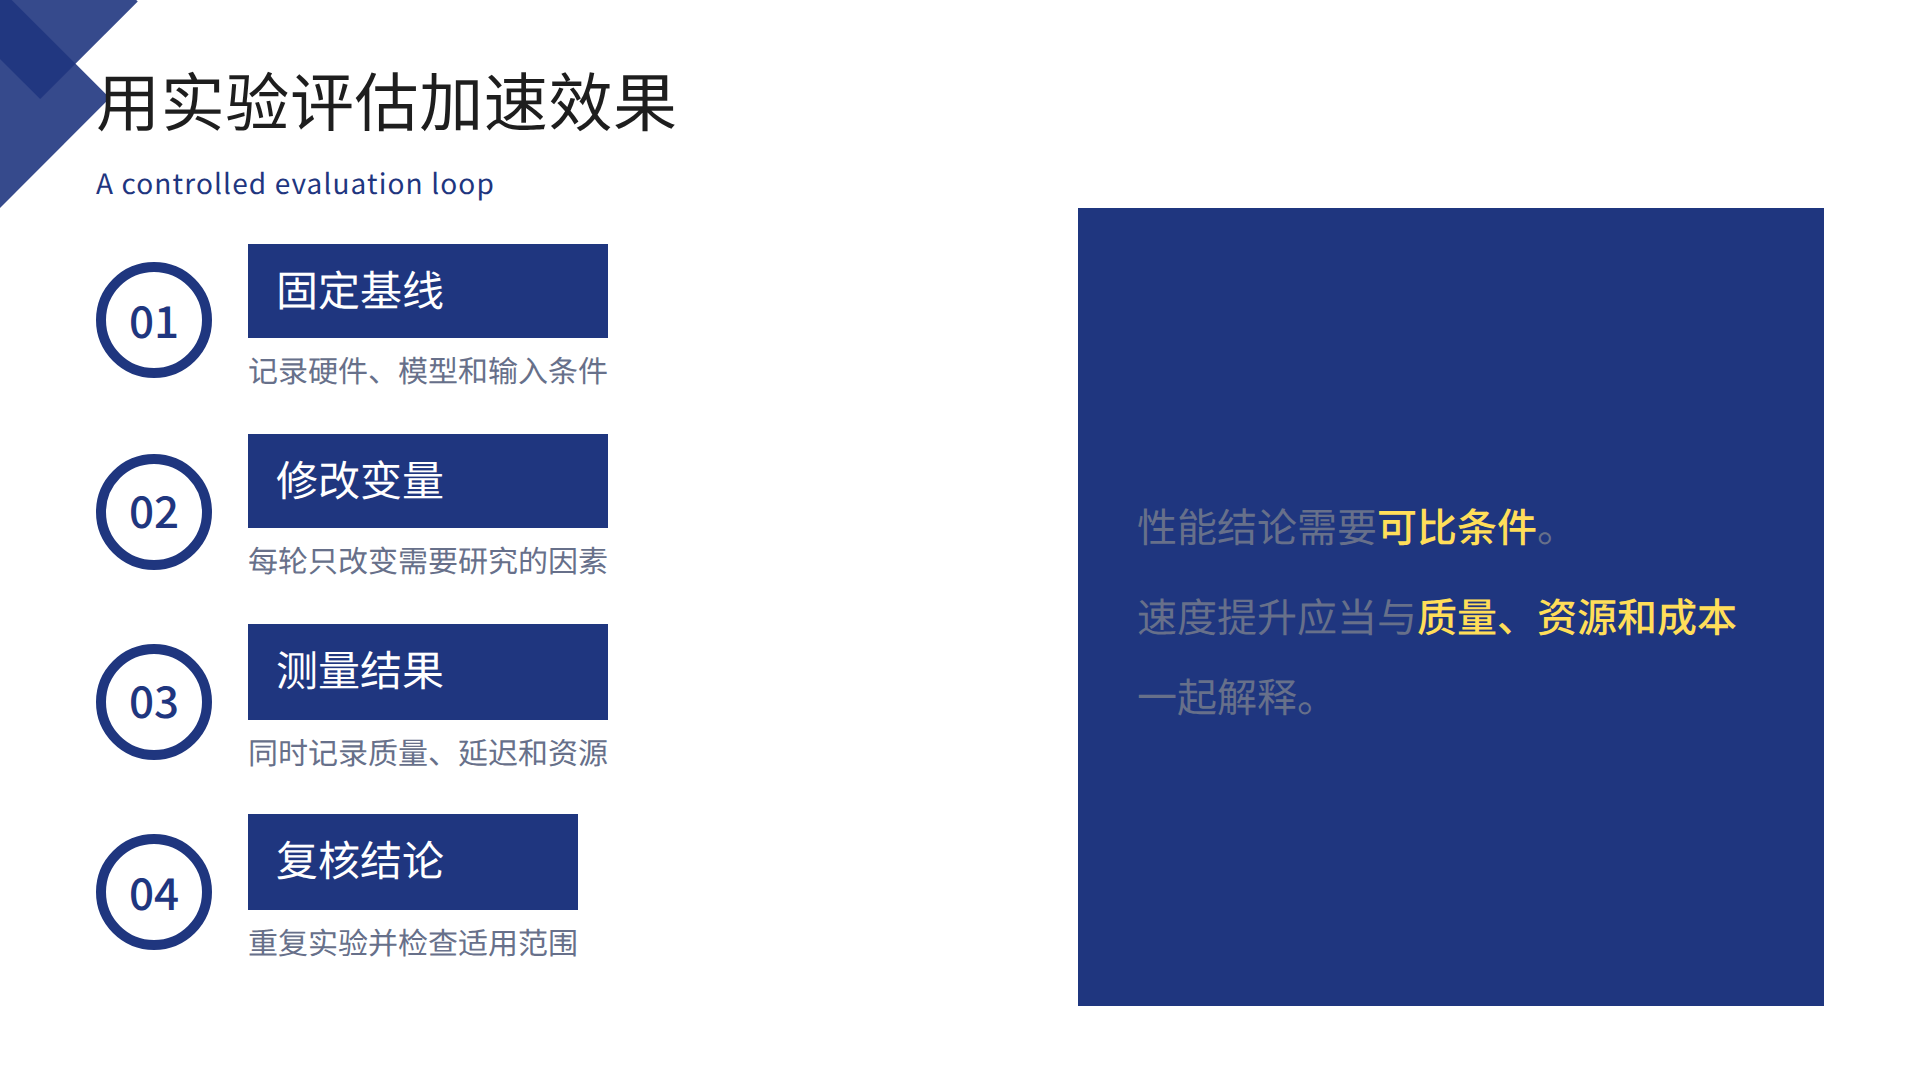
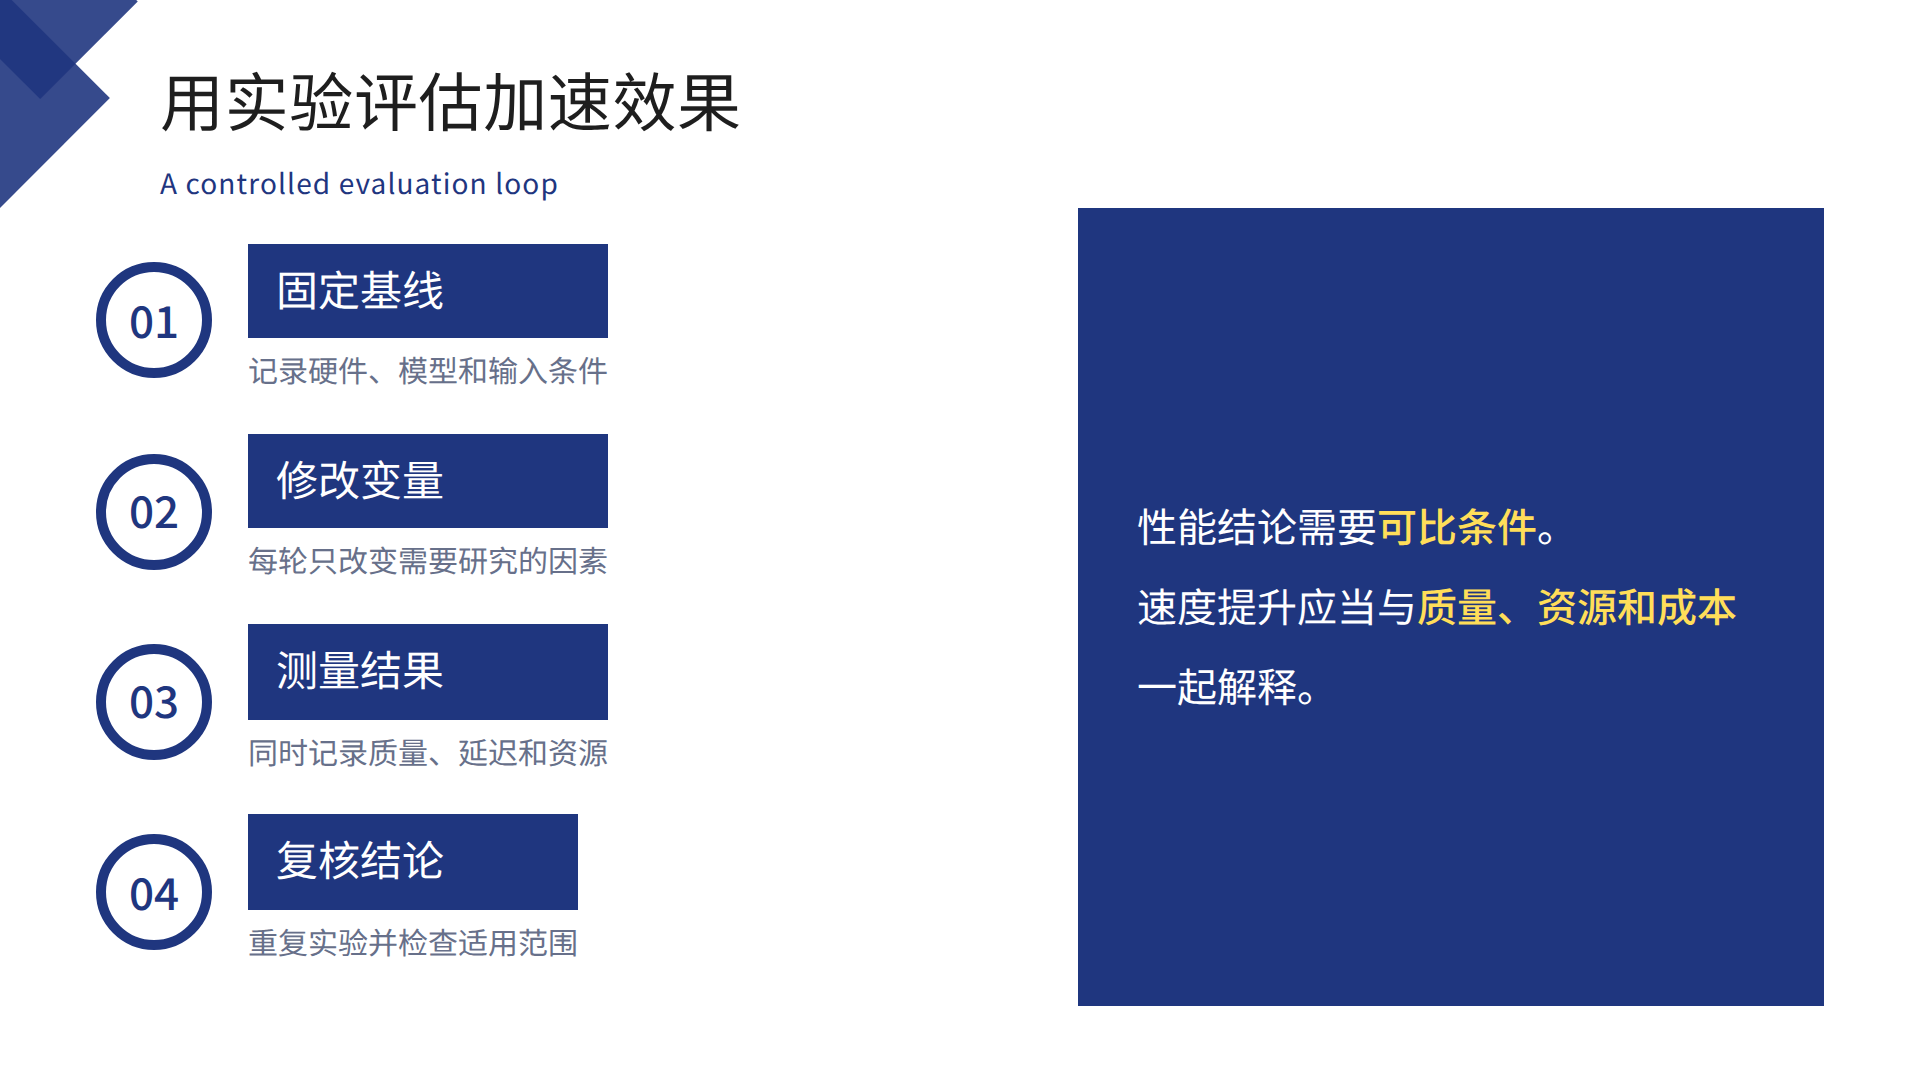
Fix text overlap with decorations and dark-panel contrast

diff --git a/styles/theme.css b/styles/theme.css
@@ -1,6 +1,6 @@
 
 :root{--cmr-primary:#1f367f;--cmr-soft:#afc3ff;--cmr-panel:#eef0f6;--cmr-accent:#ff3131;--cmr-yellow:#ffde59;--cmr-font:"Noto Sans CJK SC","Noto Sans SC","Microsoft YaHei","PingFang SC",sans-serif}
 .slidev-layout.cmr{font-family:var(--cmr-font);color:#1e1e1e;background:white;position:relative;width:100%;height:100%;box-sizing:border-box;overflow:hidden}
-.slidev-layout.cmr{padding:28px 48px 36px;font-size:21px}.cmr header h1{font-size:32px;font-weight:400;margin:0 0 34px;line-height:1.3}.cmr header p{color:var(--cmr-primary);margin-top:-26px;font-size:15px}.cmr main{position:relative;z-index:1}.cmr h2{font-size:27px;font-weight:500}.cmr h3{font-size:23px;font-weight:500}.cmr p{line-height:1.65}.cmr strong{color:var(--cmr-accent);font-weight:500}.cmr ul{padding-left:1.2em}.cmr li{margin:12px 0}.cmr img{max-width:100%;max-height:365px;object-fit:contain}.cmr-decor{position:absolute;left:0;top:0;width:36px;height:66px}.cmr-decor i{position:absolute;background:var(--cmr-primary);opacity:.87;width:36px;height:36px}.cmr-decor i:nth-child(2){width:24px;height:60px;opacity:.7}.cmr-decor i:nth-child(n+3){display:none}.cmr-logo{position:absolute;right:25px;bottom:15px;width:230px!important;max-height:46px!important;z-index:2}
+.slidev-layout.cmr{padding:28px 48px 36px;font-size:21px}.cmr header{padding-left:32px}.cmr header h1{font-size:32px;font-weight:400;margin:0 0 34px;line-height:1.3}.cmr header p{color:var(--cmr-primary);margin-top:-26px;font-size:15px}.cmr main{position:relative;z-index:1}.cmr h2{font-size:27px;font-weight:500}.cmr h3{font-size:23px;font-weight:500}.cmr p{line-height:1.65}.cmr strong{color:var(--cmr-accent);font-weight:500}.cmr ul{padding-left:1.2em}.cmr li{margin:12px 0}.cmr img{max-width:100%;max-height:365px;object-fit:contain}.cmr-decor{position:absolute;left:0;top:0;width:36px;height:66px}.cmr-decor i{position:absolute;background:var(--cmr-primary);opacity:.87;width:36px;height:36px}.cmr-decor i:nth-child(2){width:24px;height:60px;opacity:.7}.cmr-decor i:nth-child(n+3){display:none}.cmr-logo{position:absolute;right:25px;bottom:15px;width:230px!important;max-height:46px!important;z-index:2}
 .cmr-cover,.cmr-end{display:flex;align-items:center;justify-content:center;text-align:center}.cmr-cover header,.cmr-end header{display:none}.cmr-cover h1,.cmr-end h1{font-size:49px;font-weight:400;line-height:1.3}.cmr-cover .subtitle,.cmr-end .subtitle{color:var(--cmr-primary);font-size:24px}.cmr-tag{display:inline-block;color:white;background:var(--cmr-primary);padding:3px 12px;font-size:17px}.cmr-cover .cmr-decor,.cmr-end .cmr-decor,.cmr-section .cmr-decor{left:auto;right:0;top:0;width:230px;height:230px}.cmr-cover .cmr-decor i,.cmr-end .cmr-decor i,.cmr-section .cmr-decor i{width:200px;height:105px;right:16px}.cmr-cover .cmr-decor i:nth-child(2),.cmr-end .cmr-decor i:nth-child(2),.cmr-section .cmr-decor i:nth-child(2){width:95px;height:190px;right:0}.cmr-cover:after,.cmr-end:after,.cmr-section:after,.cmr-contents:after{content:'';position:absolute;bottom:0;left:0;width:240px;height:165px;background:linear-gradient(90deg,#1f367fee 0 30%,transparent 30%),linear-gradient(0deg,#1f367fcc 0 38%,transparent 38%);pointer-events:none}.cmr-section-name{position:absolute;left:140px;top:220px}.cmr-section-name h1{font-size:46px;font-weight:400;margin:0 0 6px}.cmr-section-name p{font-size:16px;text-align:center;background:var(--cmr-primary);color:white;padding:8px 24px;margin:0}.cmr-number{position:absolute;right:130px;top:205px;font-size:110px;color:var(--cmr-primary)}.cmr-quote{position:absolute;left:45px;top:42px;writing-mode:vertical-rl;font-size:18px;letter-spacing:4px}
-.cmr-two-cols main,.cmr-image-right main,.cmr-image-left main,.cmr-compare main{display:grid;grid-template-columns:1fr 1fr;gap:32px;align-items:center;min-height:370px}.cmr-image-left .cmr-body{order:2}.cmr-image-left .cmr-side{order:1}.cmr-side:empty{display:none}.cmr-contents main{margin:65px 140px}.cmr-contents ol{list-style:decimal-leading-zero;color:var(--cmr-primary);font-size:30px}.cmr-contents li{padding-left:20px;margin:20px}.cmr-contents small{display:block;font-size:14px}.cmr-steps{list-style:none;padding:0!important}.cmr-steps li{border:1px solid var(--cmr-primary);border-radius:60px;padding:14px 24px;display:flex;align-items:center;gap:15px;margin:22px 0}.cmr-steps b{border-radius:50%;background:var(--cmr-primary);color:white;padding:7px;font-size:22px}.cmr-steps h3,.cmr-steps p{margin:0}.cmr-steps p{font-size:17px}.cmr-panel{background:var(--cmr-panel);padding:22px;border-radius:12px}
+.cmr-two-cols main,.cmr-image-right main,.cmr-image-left main,.cmr-compare main{display:grid;grid-template-columns:1fr 1fr;gap:32px;align-items:center;min-height:370px}.cmr-image-left .cmr-body{order:2}.cmr-image-left .cmr-side{order:1}.cmr-side:empty{display:none}.cmr-contents main{margin:24px 36px 0 360px}.cmr-contents ol{list-style:decimal-leading-zero;color:var(--cmr-primary);font-size:30px}.cmr-contents li{padding-left:20px;margin:20px}.cmr-contents small{display:block;font-size:14px}.cmr-steps{list-style:none;padding:0!important}.cmr-steps li{border:1px solid var(--cmr-primary);border-radius:60px;padding:14px 24px;display:flex;align-items:center;gap:15px;margin:22px 0}.cmr-steps b{border-radius:50%;background:var(--cmr-primary);color:white;padding:7px;font-size:22px}.cmr-steps h3,.cmr-steps p{margin:0}.cmr-steps p{font-size:17px}.cmr-panel{background:var(--cmr-panel);padding:22px;border-radius:12px}

diff --git a/styles/extended.css b/styles/extended.css
@@ -39,6 +39,10 @@
 .cmr-flow-snake .cmr-side{background:var(--cmr-primary);color:white;padding:28px;border-radius:25px}.cmr-flow-snake .cmr-side h2{font-size:26px}.cmr-flow-snake .cmr-side p{font-size:18px}.cmr-flow-snake .cmr-side strong{color:var(--cmr-yellow)}
 .cmr-icon-steps .cmr-side{align-self:stretch;display:flex;flex-direction:column;justify-content:center;background:var(--cmr-primary);color:white;padding:24px 30px}
 .cmr-icon-steps .cmr-side strong{color:var(--cmr-yellow)}.cmr-icon-steps .cmr-side p{font-size:20px;line-height:2}
-.cmr-icon-steps ol{list-style:none;padding:0;margin:0}.cmr-icon-steps li{display:flex;align-items:center;gap:18px;margin:18px 0}.cmr-icon-steps b{border:5px solid var(--cmr-primary);border-radius:50%;color:var(--cmr-primary);width:58px;height:58px;display:flex;align-items:center;justify-content:center;font-size:22px;font-weight:500;flex-shrink:0}.cmr-icon-steps h3{font-size:21px;margin:0;background:var(--cmr-primary);color:white;padding:8px 14px;font-weight:400}.cmr-icon-steps p{font-size:15px;margin:5px 0 0;color:#67708a}
+.cmr-icon-steps ol{list-style:none;padding:0;margin:0}.cmr-icon-steps li{display:flex;align-items:center;gap:18px;margin:18px 0}.cmr-icon-steps b{border:5px solid var(--cmr-primary);border-radius:50%;color:var(--cmr-primary);width:58px;height:58px;display:flex;align-items:center;justify-content:center;font-size:22px;font-weight:500;flex-shrink:0}.cmr-icon-steps h3{font-size:21px;margin:0;background:var(--cmr-primary);color:white;padding:8px 14px;font-weight:400}.cmr-icon-steps .cmr-body p{font-size:15px;margin:5px 0 0;color:#67708a}
 .cmr-chart-grid .cmr-body{display:grid;grid-template-columns:1fr 1fr;gap:12px 24px}.cmr-chart-grid .cmr-bars{margin:0;padding:10px 14px}.cmr-chart-grid .cmr-bars figcaption{font-size:18px}.cmr-chart-grid .cmr-bar-row{margin:11px 0}.cmr-chart-grid .cmr-caption{font-size:13px;color:#687186;margin-top:12px}
 .cmr-summary main{grid-template-columns:1fr .8fr;gap:70px}.cmr-summary .cmr-body{background:var(--cmr-panel);padding:22px 28px}.cmr-summary h2{font-size:23px;margin:13px 0 6px}.cmr-summary p{font-size:18px;line-height:1.6;margin:6px 0}.cmr-summary .cmr-side{background:var(--cmr-primary);color:white;align-self:stretch;display:flex;flex-direction:column;justify-content:center;gap:23px;text-align:center;padding:25px}.cmr-summary .cmr-side strong{color:var(--cmr-yellow)}
+
+/* Keep branch connectors behind opaque labels, and preserve contrast in dark panels. */
+.cmr-radial-node{background:white}
+.cmr-icon-steps .cmr-side p{color:inherit}

diff --git a/styles/nvidia-example.css b/styles/nvidia-example.css
@@ -9,7 +9,7 @@
 .cmr.nvidia-demo .nv-cover-sub {font-size:27px;letter-spacing:.025em;margin:0 0 32px;}
 .cmr.nvidia-demo .nv-cover-line {font-size:15px;color:#6d7484;margin-top:22px;}
 .cmr.nvidia-demo.cmr-cover .cmr-tag {font-size:17px;padding:5px 20px;}
-.cmr.nvidia-demo.cmr-contents main {margin:30px 78px 0 245px;width:auto;}
+.cmr.nvidia-demo.cmr-contents main {margin:24px 36px 0 360px;width:auto;}
 .cmr.nvidia-demo.cmr-contents ol {font-size:29px;}
 .cmr.nvidia-demo.cmr-contents li {margin:19px 0;padding-left:17px;line-height:1.5;}
 .cmr.nvidia-demo.cmr-contents small {font-size:15px;letter-spacing:.02em;line-height:1.5;}
@@ -42,7 +42,7 @@
 .cmr.nvidia-demo .nv-product-copy {font-size:19px;line-height:1.8;margin:12px 0;}
 .cmr.nvidia-demo .nv-rack {margin:0;text-align:center;}
 .cmr.nvidia-demo .nv-rack img {height:350px;width:100%;object-fit:cover;object-position:center;border-radius:3px;}
-.cmr.nvidia-demo figure figcaption {font-size:12px;color:#7a8090;line-height:1.6;margin-top:10px;}
+.cmr.nvidia-demo .nv-rack figcaption, .cmr.nvidia-demo .nv-sim figcaption {font-size:12px;color:#7a8090;line-height:1.6;margin-top:10px;}
 .cmr.nvidia-demo.cmr-image-right main {grid-template-columns:1.05fr .95fr;}
 .cmr.nvidia-demo.cmr-image-left main {grid-template-columns:1.05fr .95fr;}
 .cmr.nvidia-demo .nv-sim {margin:0;}
